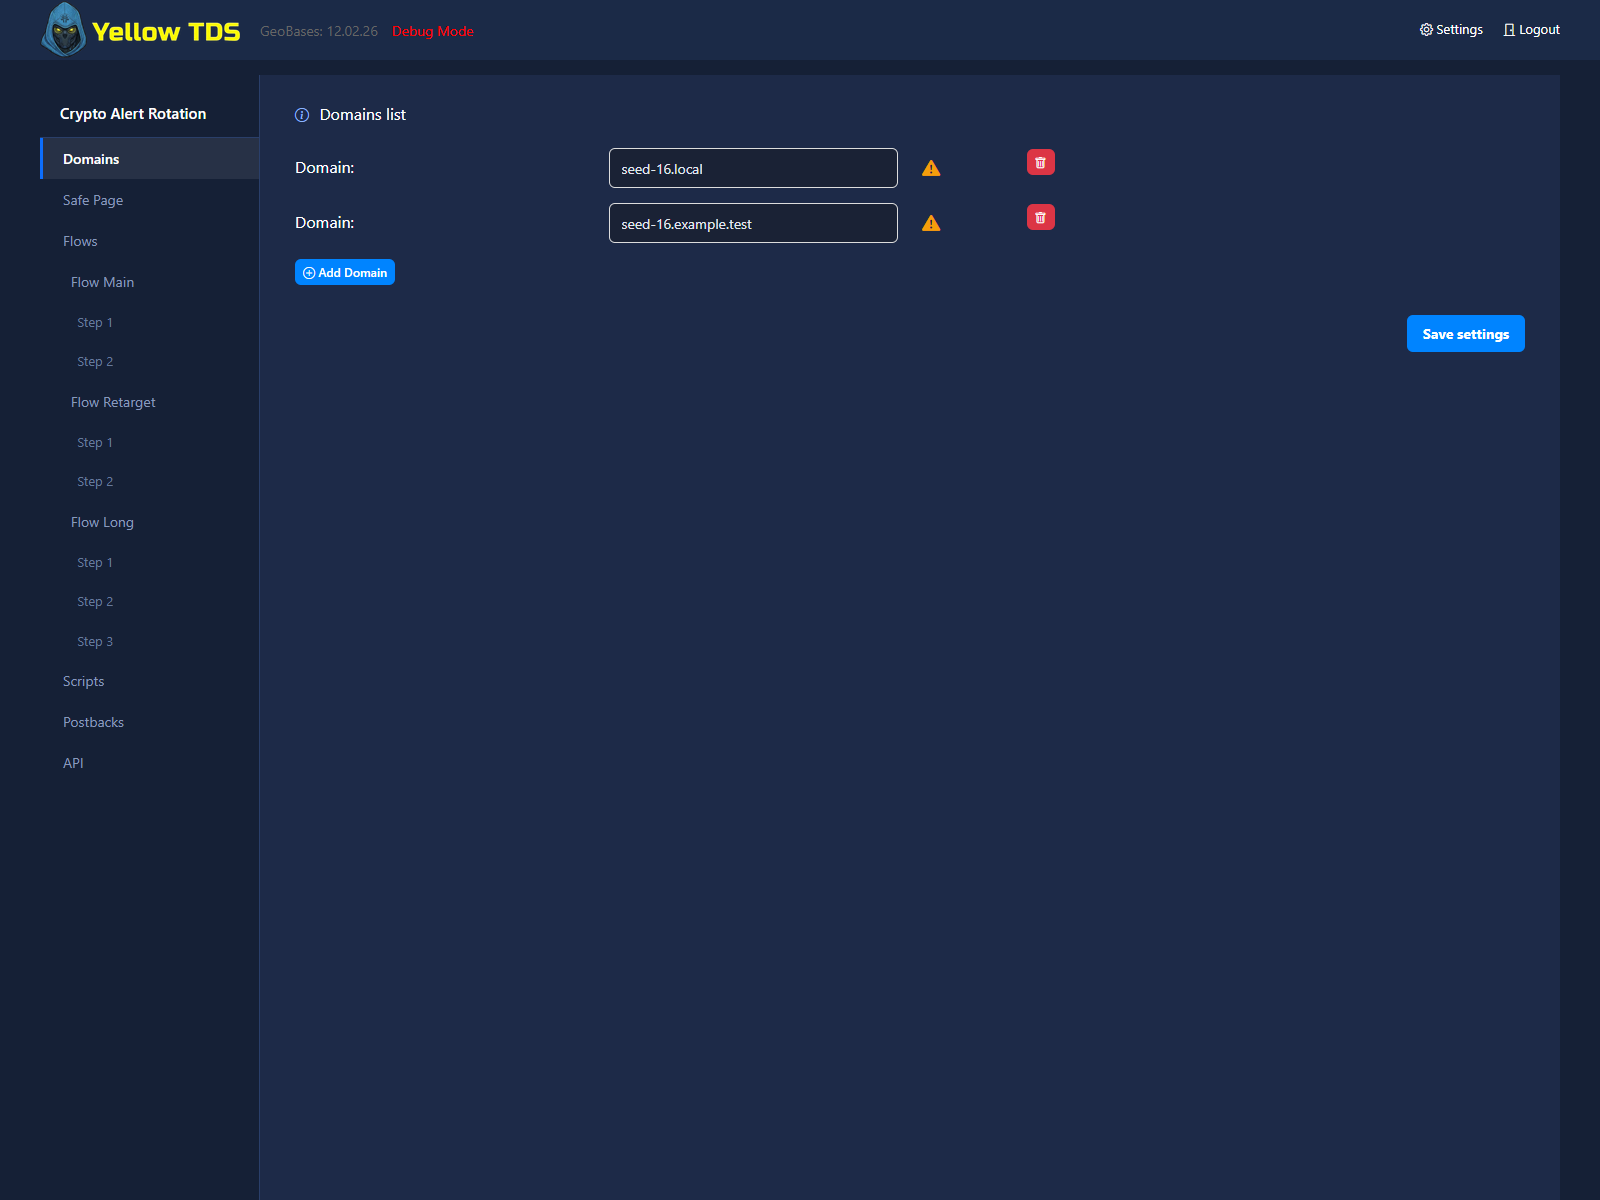
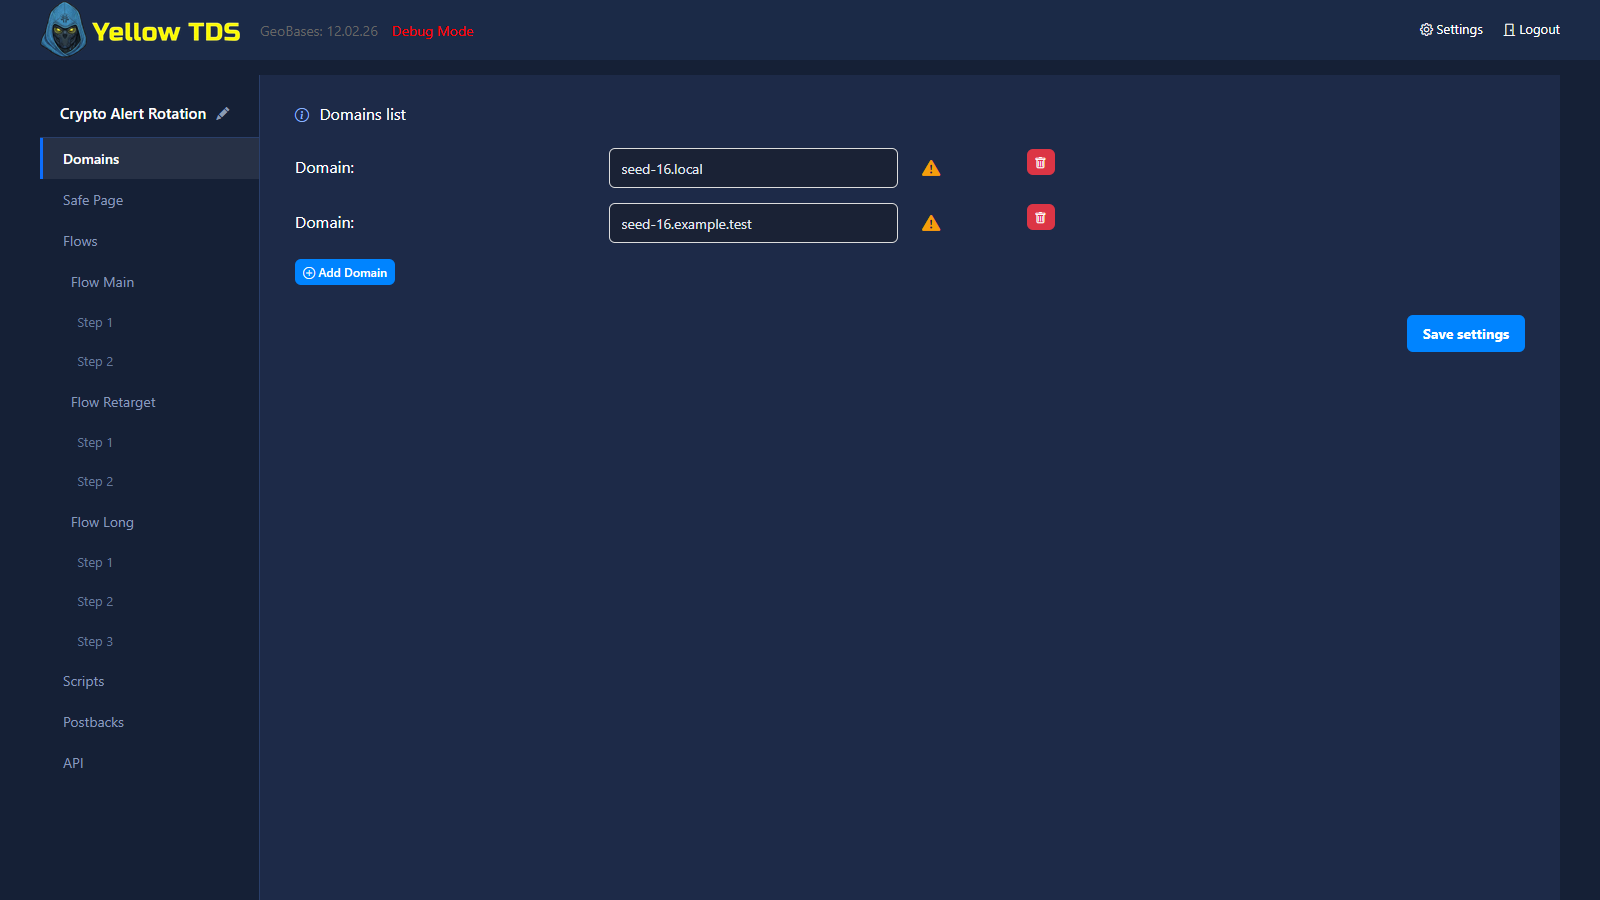
Streamline campaign navigation

diff --git a/admin/js/campeditor.js b/admin/js/campeditor.js
@@ -1,9 +1,9 @@
 async function campEditor(action, campId=null, name=null) {
-    let body = `action=${action}`;
-    if (campId)
-        body += `&campId=${campId}`;
-    if (name)
-        body += `&name=${name}`;
+    const body = new URLSearchParams({ action });
+    if (campId !== null)
+        body.set('campId', campId);
+    if (name !== null)
+        body.set('name', name);
 
     let url = new URL(window.location.href);
     let curPath = url.origin + url.pathname;
@@ -18,7 +18,7 @@ async function campEditor(action, campId=null, name=null) {
         headers: {
             'Content-Type': 'application/x-www-form-urlencoded',
         },
-        body: body
+        body: body.toString()
     });
     let js = await res.json();
     if (js.error)
@@ -41,9 +41,8 @@ document.addEventListener('DOMContentLoaded', function() {
     campMenuDropdown = document.createElement('div');
     campMenuDropdown.className = 'camp-menu-dropdown';
     campMenuDropdown.innerHTML = `
-        <div class="camp-menu-item btn-rename"><i class="bi bi-pencil-fill"></i> Rename</div>
+        <div class="camp-menu-item btn-settings"><i class="bi bi-pencil-fill"></i> Settings</div>
         <div class="camp-menu-item btn-clone"><i class="bi bi-copy"></i> Clone</div>
-        <div class="camp-menu-item btn-stats"><i class="bi bi-bar-chart-fill"></i> Statistics</div>
         <div class="camp-menu-item btn-allowed"><i class="bi bi-person-circle"></i> Allowed</div>
         <div class="camp-menu-item btn-blocked"><i class="bi bi-ban"></i> Blocked</div>
         <div class="camp-menu-item btn-leads"><i class="bi bi-coin"></i> Leads</div>
@@ -60,6 +59,19 @@ document.addEventListener('DOMContentLoaded', function() {
 
     document.addEventListener('scroll', closeCampMenu, true);
 
+    document.querySelector('#renameCampaign')?.addEventListener('click', async function() {
+        const campaignId = this.dataset.campaignId;
+        const currentName = this.dataset.campaignName ?? '';
+        const newName = prompt('Enter new campaign name:', currentName);
+        if (newName == null) return;
+        const trimmedName = newName.trim();
+        if (!trimmedName) {
+            alert('Campaign name can not be empty!');
+            return;
+        }
+        await campEditor('ren', campaignId, trimmedName);
+    });
+
     campMenuDropdown.addEventListener('click', async function(e) {
         const menuItem = e.target.closest('.camp-menu-item');
         if (!menuItem || !_campMenuId) return;
@@ -69,16 +81,8 @@ document.addEventListener('DOMContentLoaded', function() {
         const campaignName = _campMenuName;
         closeCampMenu();
 
-        if (menuItem.classList.contains('btn-rename')) {
-            const currentName = campaignName ?? '';
-            const newName = prompt("Enter new campaign name:", currentName);
-            if (newName == null) return;
-            const trimmedName = newName.trim();
-            if (trimmedName) {
-                await campEditor('ren', campaignId, trimmedName);
-            } else {
-                alert('Campaign name can not be empty!');
-            }
+        if (menuItem.classList.contains('btn-settings')) {
+            window.location.href = `campsettings.php?campId=${campaignId}`;
             return;
         }
 
@@ -103,11 +107,6 @@ document.addEventListener('DOMContentLoaded', function() {
         }
 
         let startDateEndDateParams = getStartDateEndDateParams();
-        if (menuItem.classList.contains('btn-stats')) {
-            window.location.href = `statistics.php?campId=${campaignId}${startDateEndDateParams}`;
-            return;
-        }
-
         if (menuItem.classList.contains('btn-allowed')) {
             window.location.href = `clicks.php?campId=${campaignId}&view=allowed${startDateEndDateParams}`;
             return;

diff --git a/admin/css/campsettings.css b/admin/css/campsettings.css
@@ -20,14 +20,45 @@
 }
 
 .camp-name {
+    display: flex;
+    align-items: center;
+    gap: 8px;
     padding: 12px 20px;
     font-size: 15px;
     font-weight: 600;
     color: #fff;
     border-bottom: 1px solid #2a3f6a;
+}
+
+.camp-name-text {
+    min-width: 0;
     white-space: nowrap;
     overflow: hidden;
     text-overflow: ellipsis;
+}
+
+.camp-rename-btn {
+    flex: 0 0 auto;
+    border: 0;
+    background: transparent;
+    color: #8a9bb5;
+    padding: 2px;
+    font-size: 13px;
+    line-height: 1;
+    cursor: pointer;
+    transition: color 0.15s ease, transform 0.15s ease;
+}
+
+.camp-rename-btn:hover,
+.camp-rename-btn:focus-visible {
+    color: #60a5fa;
+    transform: translateY(-1px);
+}
+
+.camp-rename-btn:focus-visible {
+    outline: 2px solid rgba(96, 165, 250, 0.6);
+    outline-offset: 3px;
+    border-radius: 3px;
 }
 
 .camp-sidebar ul {

diff --git a/admin/campsettings.php b/admin/campsettings.php
@@ -16,7 +16,18 @@ global $c, $db, $campId;
     <div class="all-content-wrapper">
         <div class="camp-layout">
             <nav class="camp-sidebar">
-                <div class="camp-name"><?= htmlspecialchars($campName) ?></div>
+                <div class="camp-name">
+                    <span class="camp-name-text"><?= htmlspecialchars($campName) ?></span>
+                    <button
+                        type="button"
+                        class="camp-rename-btn"
+                        id="renameCampaign"
+                        data-campaign-id="<?= (int)$campId ?>"
+                        data-campaign-name="<?= htmlspecialchars($campName, ENT_QUOTES | ENT_SUBSTITUTE, 'UTF-8') ?>"
+                        title="Rename campaign"
+                        aria-label="Rename campaign <?= htmlspecialchars($campName, ENT_QUOTES | ENT_SUBSTITUTE, 'UTF-8') ?>"
+                    ><i class="bi bi-pencil-fill" aria-hidden="true"></i></button>
+                </div>
                 <ul>
                     <li><a href="#sec-domains" class="active">Domains</a></li>
                     <li><a href="#sec-safepage">Safe Page</a></li>

diff --git a/admin/tablecolumns.php b/admin/tablecolumns.php
@@ -217,7 +217,7 @@ class Tabulator
                 const name = data.name;
                 if (!id) return name || '';
                 return `<div class="camp-name-cell">
-                    <a href="campsettings.php?campId=\${id}" class="camp-name-link">\${name}</a>
+                    <a href="statistics.php?campId=\${id}\${getStartDateEndDateParams()}" class="camp-name-link" title="Open statistics">\${name}</a>
                     <button class="camp-menu-btn" title="Actions"><i class="bi bi-three-dots-vertical"></i></button>
                 </div>`;
             },

diff --git a/docs/ru/campaigns.md b/docs/ru/campaigns.md
@@ -17,8 +17,11 @@
 
 - создать кампанию
 - дублировать кампанию
-- переименовать кампанию
+- открыть статистику одним нажатием на название кампании
+- открыть редактор через **Actions → Settings**
 - удалить кампанию
+
+Переименование перенесено в редактор кампании: нажмите значок карандаша справа от названия в верхней части бокового меню. Откроется обычный диалог ввода нового имени.
 
 ## Домены
 

diff --git a/docs/en/campaign-settings.md b/docs/en/campaign-settings.md
@@ -9,7 +9,8 @@ The campaign settings page includes:
 - Flows
 - Scripts
 - Postbacks
-- Statistics
+
+The campaign name is shown at the top of the sidebar. Use the pencil icon beside it to rename the campaign without returning to the dashboard.
 
 ## White
 
@@ -22,7 +23,3 @@ Defines what blocked or filtered traffic receives.
 Defines the black branch routing for allowed traffic.
 
 ![Flows section in campaign settings](../assets/screenshots/campaign-settings-flows.png)
-
-## Statistics
-
-Defines timezone, click-view columns, and custom statistics tables.

diff --git a/docs/ru/campaign-settings.md b/docs/ru/campaign-settings.md
@@ -9,7 +9,8 @@
 - Flows
 - Scripts
 - Postbacks
-- Statistics
+
+Название кампании отображается в верхней части бокового меню. Значок карандаша справа от него позволяет переименовать кампанию, не возвращаясь на dashboard.
 
 ## Domains
 
@@ -57,11 +58,3 @@
 
 - inbound status mapping
 - outgoing S2S postbacks
-
-## Statistics
-
-Здесь настраиваются:
-
-- timezone
-- click-table columns
-- custom statistics tables

diff --git a/docs/en/campaigns.md b/docs/en/campaigns.md
@@ -17,6 +17,8 @@ From the dashboard you can:
 
 - create a campaign
 - duplicate a campaign
-- rename a campaign
+- open campaign statistics by clicking the campaign name
+- open the editor through **Actions → Settings**
 - delete a campaign
 
+Renaming is available inside the campaign editor: click the pencil icon to the right of the campaign name at the top of the sidebar. A standard prompt asks for the new name.
